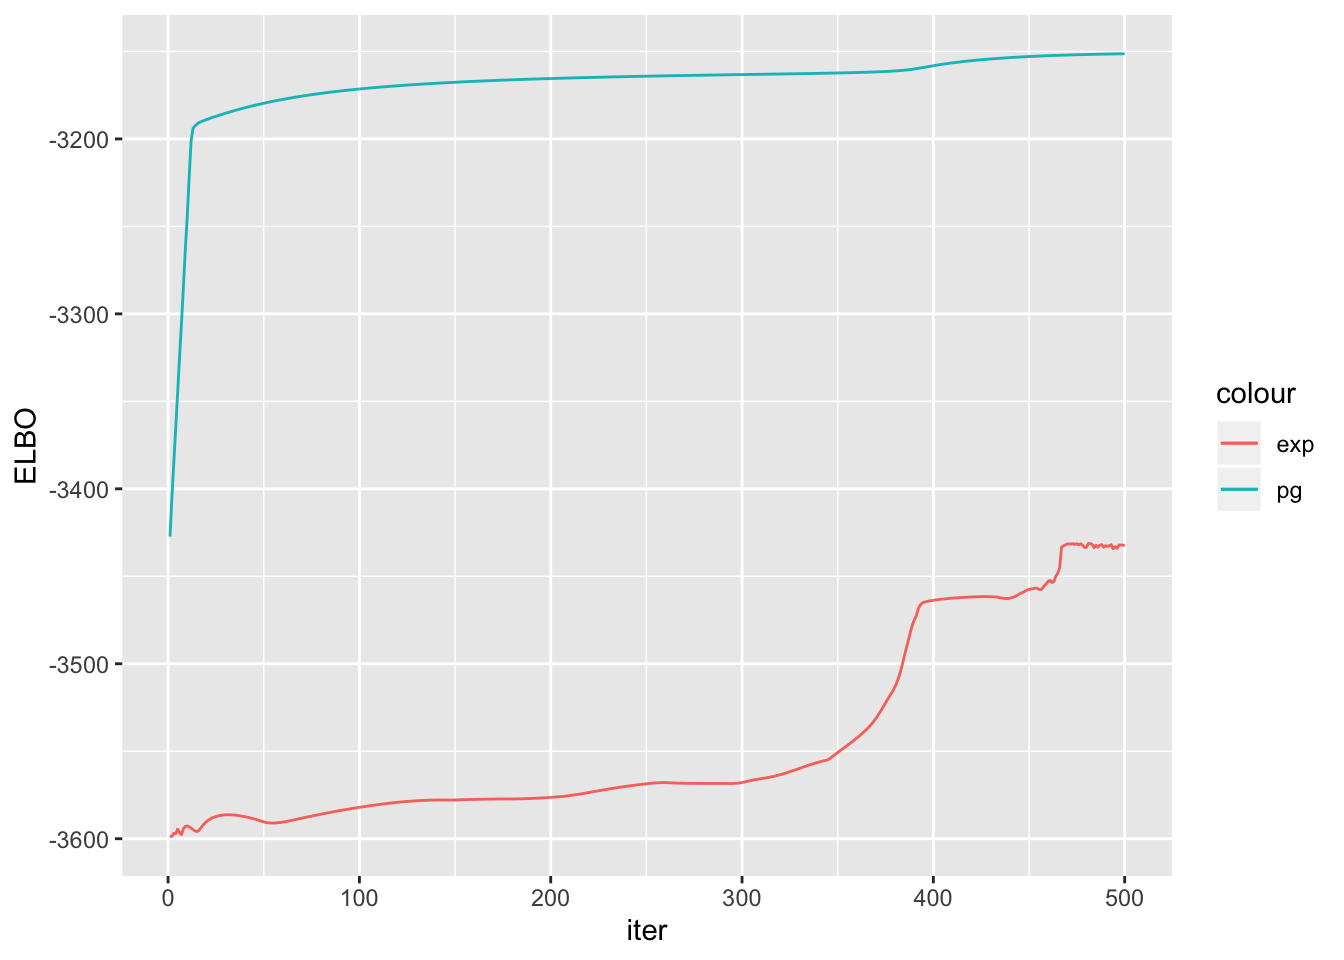
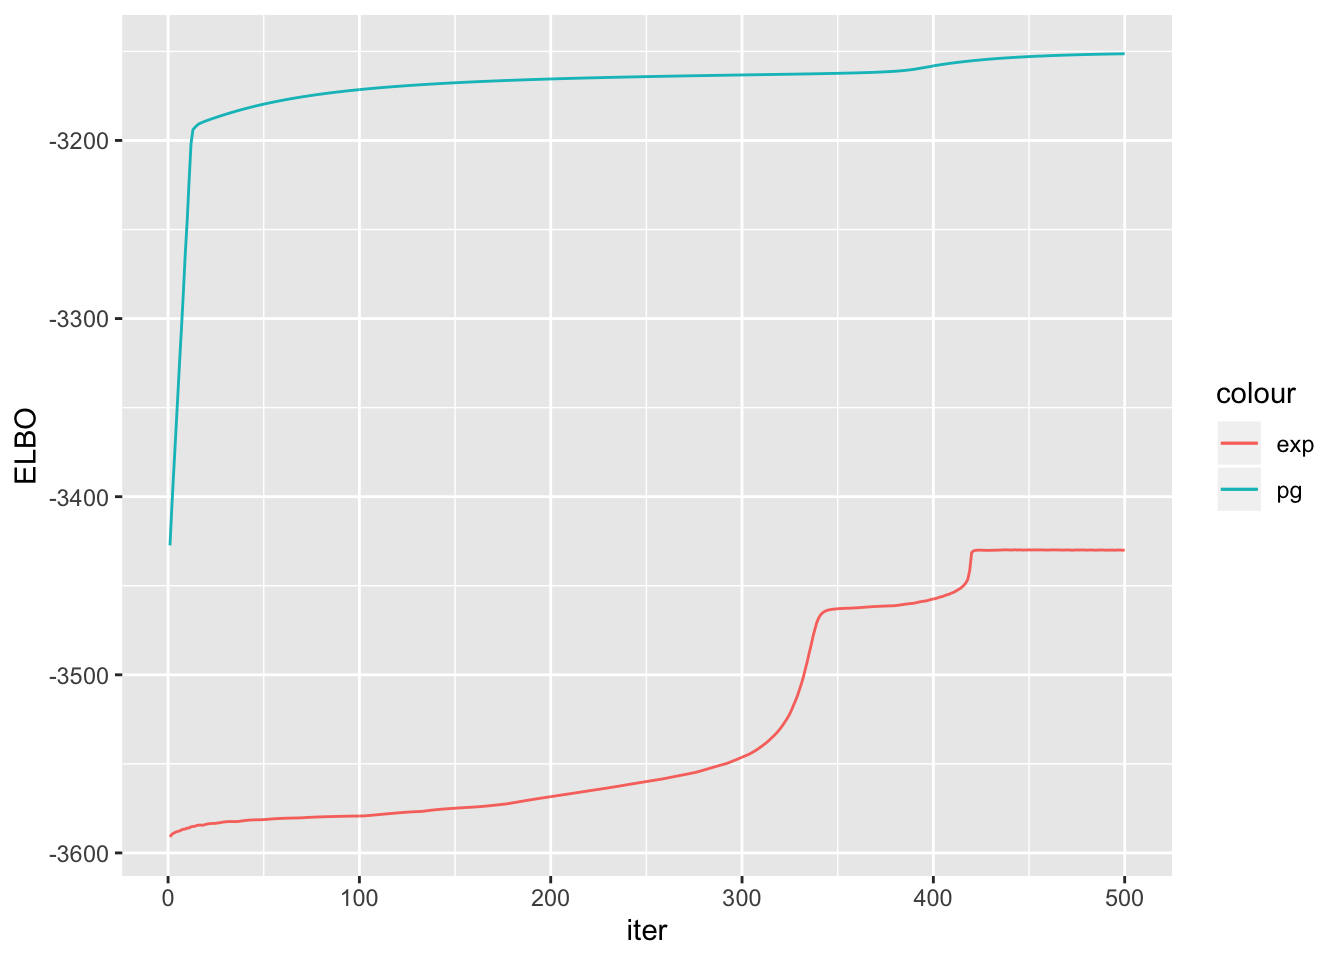
Build site.

diff --git a/docs/Investigate_ebpmf_elbo_rmse.html b/docs/Investigate_ebpmf_elbo_rmse.html
@@ -536,10 +536,10 @@ This reproducible <a href="http://rmarkdown.rstudio.com">R Markdown</a> analysis
 <div class="panel panel-default">
 <div class="panel-heading">
 <p class="panel-title">
-<a data-toggle="collapse" data-parent="#workflowr-checks" href="#strongRepositoryversionstrongahrefhttpsgithubcomzihao12ebpmfdemotree0bc36e332897f61f5b0aaab4da0566757ab99d1dtargetblank0bc36e3a"> <span class="glyphicon glyphicon-ok text-success" aria-hidden="true"></span> <strong>Repository version:</strong> <a href="https://github.com/zihao12/ebpmf_demo/tree/0bc36e332897f61f5b0aaab4da0566757ab99d1d" target="_blank">0bc36e3</a> </a>
+<a data-toggle="collapse" data-parent="#workflowr-checks" href="#strongRepositoryversionstrongahrefhttpsgithubcomzihao12ebpmfdemotree1e3083ac33f8bf33bf0f56114158f779bc79c934targetblank1e3083aa"> <span class="glyphicon glyphicon-ok text-success" aria-hidden="true"></span> <strong>Repository version:</strong> <a href="https://github.com/zihao12/ebpmf_demo/tree/1e3083ac33f8bf33bf0f56114158f779bc79c934" target="_blank">1e3083a</a> </a>
 </p>
 </div>
[2 lines of base64/hex data omitted]
 <div class="panel-body">
 <p>
 Great! You are using Git for version control. Tracking code development and connecting the code version to the results is critical for reproducibility. The version displayed above was the version of the Git repository at the time these results were generated. <br><br> Note that you need to be careful to ensure that all relevant files for the analysis have been committed to Git prior to generating the results (you can use <code>wflow_publish</code> or <code>wflow_git_commit</code>). workflowr only checks the R Markdown file, but you know if there are other scripts or data files that it depends on. Below is the status of the Git repository when the results were generated:
@@ -611,6 +611,40 @@ Message
 Rmd
 </td>
 <td>
+<a href="https://github.com/zihao12/ebpmf_demo/blob/1e3083ac33f8bf33bf0f56114158f779bc79c934/analysis/Investigate_ebpmf_elbo_rmse.Rmd" target="_blank">1e3083a</a>
+</td>
+<td>
+zihao12
+</td>
+<td>
+2019-10-26
+</td>
+<td>
+Investigate_ebpmf_elbo_rmse.Rmd
+</td>
+</tr>
+<tr>
+<td>
+html
+</td>
+<td>
+<a href="https://rawcdn.githack.com/zihao12/ebpmf_demo/40e85cbb9ebf8b06870e0ba65b1343e9c37e8f29/docs/Investigate_ebpmf_elbo_rmse.html" target="_blank">40e85cb</a>
+</td>
+<td>
+zihao12
+</td>
+<td>
+2019-10-26
+</td>
+<td>
+Build site.
+</td>
+</tr>
+<tr>
+<td>
+Rmd
+</td>
+<td>
 <a href="https://github.com/zihao12/ebpmf_demo/blob/0bc36e332897f61f5b0aaab4da0566757ab99d1d/analysis/Investigate_ebpmf_elbo_rmse.Rmd" target="_blank">0bc36e3</a>
 </td>
 <td>
@@ -653,7 +687,7 @@ compute_rmse &lt;- function(lam1, lam2){
 }</code></pre>
 <pre class="r"><code>K = 2
 sim = sim_poisson_gamma(K = K)
-fit_exp  = ebpmf_exponential_mixture(sim$X, K = K, maxiter.out = 500, Lam_true = sim$Lam)
+fit_exp  = ebpmf_exponential_mixture(sim$X, K = K, maxiter.out = 500, Lam_true = sim$Lam, m = 2^0.25)
 fit_pg = ebpmf_point_gamma(sim$X, K = K, maxiter.out = 500, Lam_true = sim$Lam)
 
 df = data.frame(ELBO_pg = fit_pg$ELBO, RMSE_pg  = fit_pg$RMSE,
@@ -663,11 +697,85 @@ df = data.frame(ELBO_pg = fit_pg$ELBO, RMSE_pg  = fit_pg$RMSE,
   geom_line(aes(x = iter, y = ELBO_exp, color = &quot;exp&quot;))+
   ylab(&quot;ELBO&quot;)</code></pre>
 <p><img src="figure/Investigate_ebpmf_elbo_rmse.Rmd/unnamed-chunk-4-1.png" width="672" style="display: block; margin: auto;" /></p>
+<p>
+<button type="button" class="btn btn-default btn-xs btn-workflowr btn-workflowr-fig" data-toggle="collapse" data-target="#fig-unnamed-chunk-4-1">
+Past versions of unnamed-chunk-4-1.png
+</button>
+</p>
+<div id="fig-unnamed-chunk-4-1" class="collapse">
+<div class="table-responsive">
+<table class="table table-condensed table-hover">
+<thead>
+<tr>
+<th>
+Version
+</th>
+<th>
+Author
+</th>
+<th>
+Date
+</th>
+</tr>
+</thead>
+<tbody>
+<tr>
+<td>
+<a href="https://github.com/zihao12/ebpmf_demo/blob/40e85cbb9ebf8b06870e0ba65b1343e9c37e8f29/docs/figure/Investigate_ebpmf_elbo_rmse.Rmd/unnamed-chunk-4-1.png" target="_blank">40e85cb</a>
+</td>
+<td>
+zihao12
+</td>
+<td>
+2019-10-26
+</td>
+</tr>
+</tbody>
+</table>
+</div>
+</div>
 <pre class="r"><code>ggplot(df)+
   geom_line(aes(x = iter, y = RMSE_pg, color = &quot;pg&quot;))+
   geom_line(aes(x = iter, y = RMSE_exp, color = &quot;exp&quot;))+
   ylab(&quot;RMSE&quot;)</code></pre>
 <p><img src="figure/Investigate_ebpmf_elbo_rmse.Rmd/unnamed-chunk-4-2.png" width="672" style="display: block; margin: auto;" /></p>
+<p>
+<button type="button" class="btn btn-default btn-xs btn-workflowr btn-workflowr-fig" data-toggle="collapse" data-target="#fig-unnamed-chunk-4-2">
+Past versions of unnamed-chunk-4-2.png
+</button>
+</p>
+<div id="fig-unnamed-chunk-4-2" class="collapse">
+<div class="table-responsive">
+<table class="table table-condensed table-hover">
+<thead>
+<tr>
+<th>
+Version
+</th>
+<th>
+Author
+</th>
+<th>
+Date
+</th>
+</tr>
+</thead>
+<tbody>
+<tr>
+<td>
+<a href="https://github.com/zihao12/ebpmf_demo/blob/40e85cbb9ebf8b06870e0ba65b1343e9c37e8f29/docs/figure/Investigate_ebpmf_elbo_rmse.Rmd/unnamed-chunk-4-2.png" target="_blank">40e85cb</a>
+</td>
+<td>
+zihao12
+</td>
+<td>
+2019-10-26
+</td>
+</tr>
+</tbody>
+</table>
+</div>
+</div>
 <br>
 <p>
 <button type="button" class="btn btn-default btn-workflowr btn-workflowr-sessioninfo" data-toggle="collapse" data-target="#workflowr-sessioninfo" style="display: block;">
